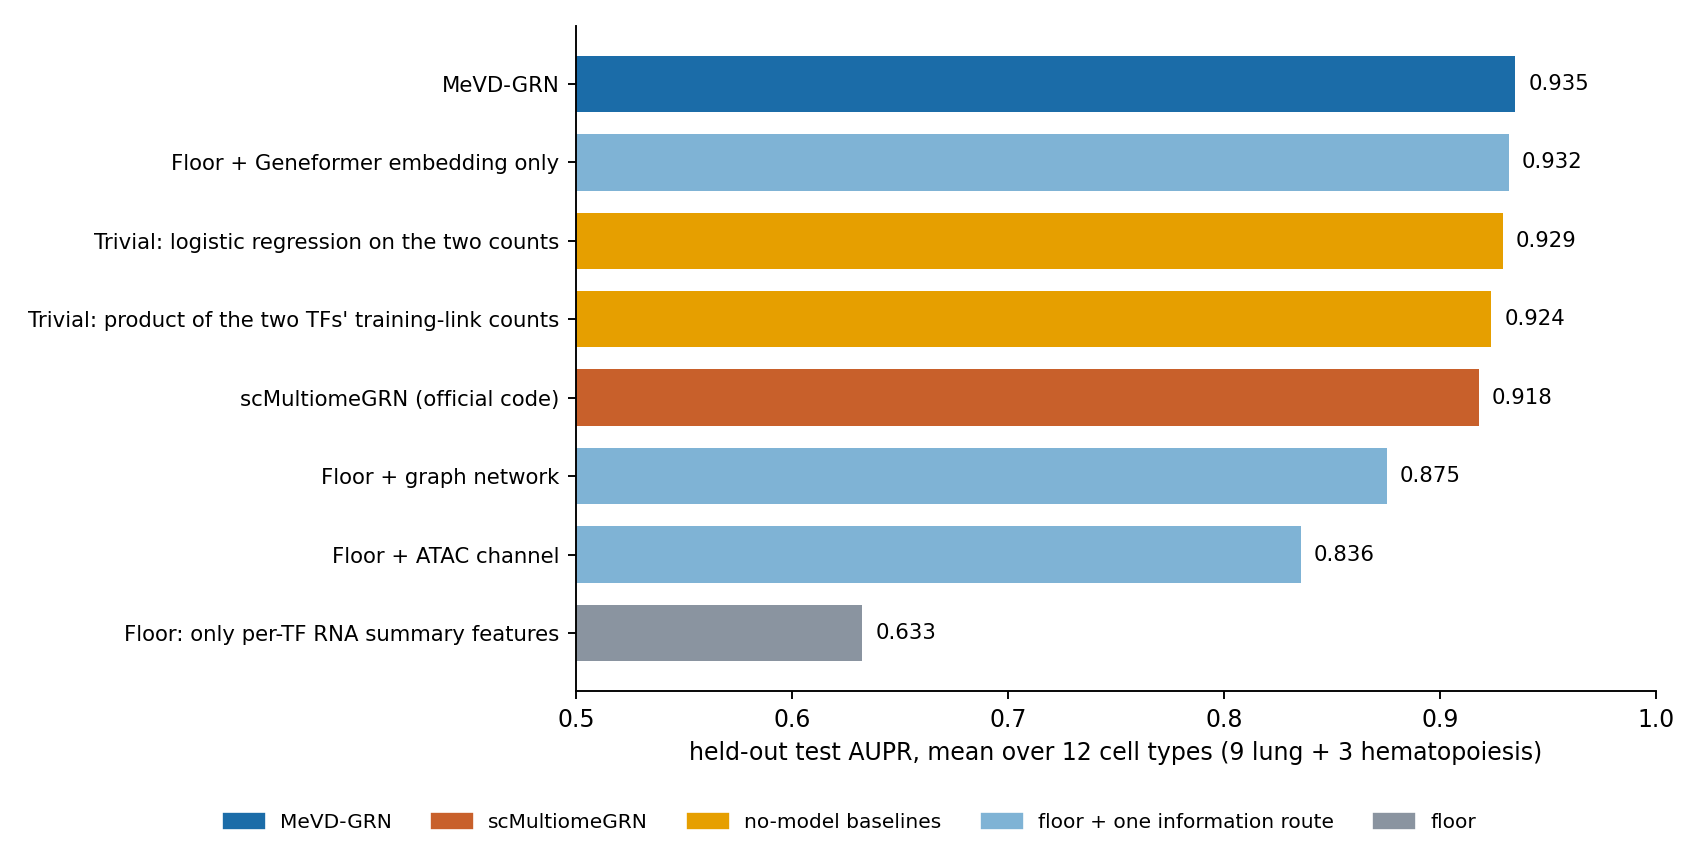
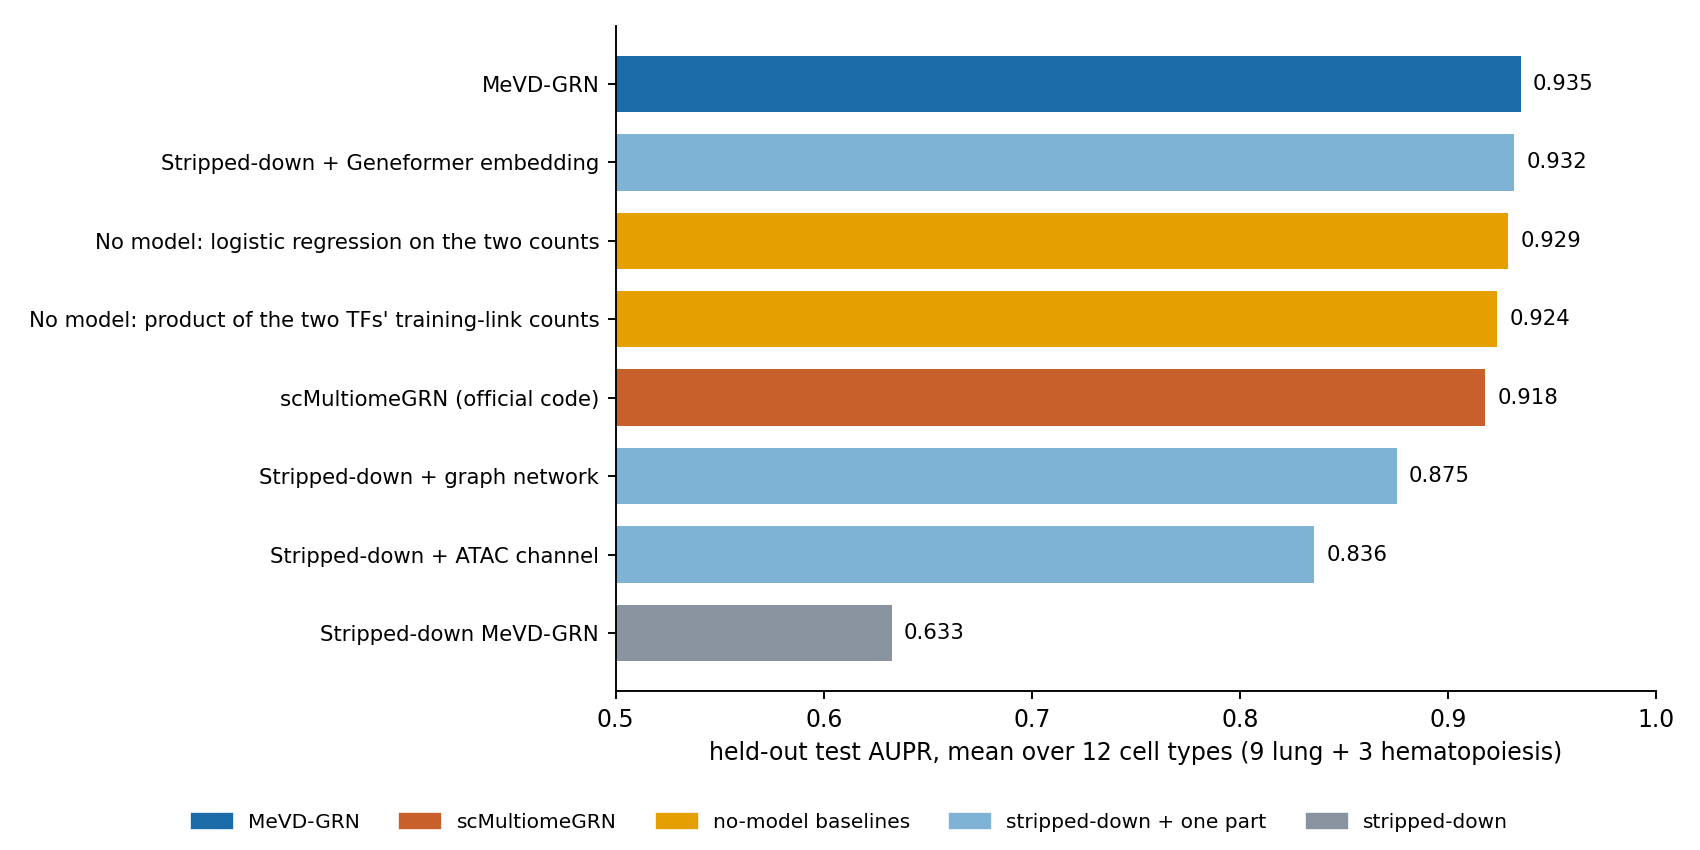
deck: one six-point slide for the ablations and the counting baseline; 'stripped-down' instead of 'floor'

diff --git a/docs/presentation/build_deck_11_17.py b/docs/presentation/build_deck_11_17.py
@@ -186,7 +186,7 @@ In the result tables, **bold** marks the best score in a row and *italics* the s
 - The splits are scMultiomeGRN's own: ten folds made with its random seed, 666. Our fold files are byte-for-byte identical to the ones the authors' split code writes.
 - In each fold, a tenth of the known links plus the same number of random non-links is held out for testing. Another 18% of the links is kept aside for validation.
 - Scores come from the authors' own metric function. AUROC is the chance that a true link is ranked above a non-link, and AUPR is the area under the precision-recall curve.
-- Our headline numbers are on the held-out test links only. The paper scores the full matrix of TF pairs, which includes the training links, so we report that separately on slide 13 to compare with the published figures.
+- Our headline numbers are on the held-out test links only. The paper scores the full matrix of TF pairs, which includes the training links, so we report that separately on slide 12 to compare with the published figures.
 - We ran the official code with six seeds on the first five lung cell types and two seeds on the rest. MeVD-GRN ran with five seeds everywhere.
 
 ## 7. How we kept test data out of training
@@ -263,39 +263,18 @@ add("""
 - Pooled over the 30 fold pairs, the gain is 0.017 AUPR (p = 4e-8) and 0.009 AUROC (p = 8e-8), and MeVD-GRN is ahead in 93% of the pairs.
 - Keep in mind that the RNA and ATAC data were measured in different cells here, and that the CMP RNA merges three labels.
 
-## 11. Where does MeVD-GRN's score come from?
+## 11. What drives MeVD-GRN's score?
 
-- To find out what the model actually relies on, we built a floor model. It keeps only the per-TF summary features, the pair scorer and a smaller network, with no Geneformer embedding, no ATAC channel, no graph network and no known links.
-- We then added back exactly one of those parts at a time and ran every version on all twelve cell types with five seeds.
-- The table gives the average held-out score over the twelve cell types and the difference from MeVD-GRN.
-""")
-add(column_table(["Version", "AUPR", "Difference from MeVD-GRN", "AUROC", "Difference from MeVD-GRN"], ROUTE, rank_cols=[1, 3], nd=3))
-add("""
-- The floor model collapses to 0.633 AUPR, about 0.30 below MeVD-GRN. The summary features alone are not enough.
-- Adding the ATAC channel brings it to 0.836, and adding the graph network brings it to 0.875. Both help, but neither gets close to the full model.
-- Adding only the Geneformer embedding brings it to 0.932, which is 0.003 below MeVD-GRN and 0.014 above scMultiomeGRN.
-- The Geneformer embedding is a fixed vector per gene and is the same in every cell type. It knows nothing about the cell data, only which TFs are in the pair.
-- So a model that only knows which two TFs it is looking at does almost as well as the full model. This points to the identity of the TFs, rather than anything specific to the cell type, as the main source of signal. The next slide tests that directly.
+- To see what MeVD-GRN relies on, we built a stripped-down version with no Geneformer embedding, no ATAC channel, no graph network and no known links, and then switched those parts back on one at a time. Every version ran on all twelve cell types with five seeds.
+- The stripped-down model reaches only 0.633 AUPR. Adding the ATAC channel brings it to 0.836 and adding the graph network brings it to 0.875, but neither gets near the full model's 0.935.
+- Adding back only the Geneformer embedding brings it to 0.932, within 0.003 of the full model. That embedding is the same in every cell type and only tells the model which TFs it is looking at.
+- We then tried a rule with no model at all, which scores a pair by how many training links each of its two TFs already has. It reaches 0.924, or 0.929 with a logistic regression on the two counts, and both beat scMultiomeGRN's 0.918.
+- This works because the folds split links, not TFs. Every TF is seen during training, and TFs with many links in training tend to have many in the test fold too.
+- About 0.011 of MeVD-GRN's 0.017 AUPR lead over scMultiomeGRN comes from this hub effect. What the model adds beyond it is about 0.006 AUPR, which is small but significant (p = 6e-9 over 120 fold pairs). A split that holds out whole TFs would remove the shortcut, and it is the obvious next experiment.
 
 ![Where every method lands on held-out AUPR](figs_scmgrn/fig_ladder.png)
 
-## 12. A no-model baseline: counting known links
-
-- The official folds split links, not TFs, so every TF shows up in the training links.
-- A TF with many known links in training is likely to have many among the test links too. A method can exploit this hub effect without learning anything about regulation.
-- To measure how much this explains, we built a baseline with no model, no features and no cell data.
-- For a test pair of TFs, the baseline counts how many training links each of the two TFs has. It then scores the pair by the product of the two counts, or with a logistic regression on them.
-- It only uses each fold's training links, and it is scored with the same code as every other method.
-""")
-add(column_table(["Method (held-out test links, 12 cell types)", "AUPR", "AUROC"], BASE, rank_cols=[1, 2], nd=3))
-add("""
-- The counting baseline beats scMultiomeGRN on AUPR and matches or beats it on AUROC. On this split, scMultiomeGRN does no better than a rule that counts known links.
-- Of the 0.017 AUPR that MeVD-GRN gains over scMultiomeGRN, about 0.011 can be had from counting alone.
-- What MeVD-GRN adds beyond the hub effect is about 0.006 AUPR and 0.007 AUROC. That is small but real: a fold-paired test over 120 pairs gives p = 6e-9 for AUPR and 1e-8 for AUROC.
-- This matches what we saw with BEAR-GRN, where simple in-degree rankers matched or beat published methods and reviewers expected splits that hold out whole TFs.
-- A stricter version of this benchmark would hold out all the links of some TFs, which removes the counting shortcut. We have not run it yet, and it is the obvious next experiment.
-
-## 13. The paper's own evaluation (for reference only)
+## 12. The paper's own evaluation (for reference only)
 
 - The paper scores the full matrix of all TF pairs, including the links each model was trained on. We show it only so the numbers can be compared with the published ones, and we draw no conclusions from it.
 - The last column holds the published figures for scMultiomeGRN and is not ranked.
@@ -309,7 +288,7 @@ add("""
 - The difference comes from the training links. A larger model rebuilds the links it was trained on more completely, and this evaluation rewards that, so it should not be read as better generalisation.
 - For the blood cell types, on the same evaluation: HSC scores 0.946 / 0.793 for MeVD-GRN, 0.927 / 0.696 for the official code and 0.92 / 0.67 in the paper. CMP scores 0.946 / 0.805, 0.927 / 0.692 and 0.92 / 0.66, and GMP scores 0.943 / 0.784, 0.928 / 0.681 and 0.93 / 0.71.
 
-## 14. Limitations
+## 13. Limitations
 
 - The answer key is computed from the same ATAC data the models read. A model can score well by learning how the key was built, without learning anything about regulation, and the same holds for scMultiomeGRN.
 - The folds split links, not TFs. A TF's identity and its number of training links carry over to the test links, which is why counting links works so well.
@@ -320,7 +299,7 @@ add("""
 - For the blood data, the ATAC counts come from the GEO matrix rather than per-cell sequence files, and the CMP RNA is our reading of three labels.
 - None of this tells us how the two methods compare on experimentally measured answer keys, which is what a benchmark like BEAR-GRN offers.
 
-## 15. What we conclude and what comes next
+## 14. What we conclude and what comes next
 
 - On scMultiomeGRN's own benchmark, with the same data, splits and scoring, and a faithful copy of the published method as the baseline, MeVD-GRN scores consistently higher on held-out links: 0.935 against 0.918 AUPR. This is a fair claim and we can make it.
 - What matters more is what that lead is made of. Counting known links reproduces about two thirds of it, and a fixed per-gene embedding with no cell data comes close to the full model.
@@ -329,9 +308,9 @@ add("""
 - The next step is to repeat the comparison with a split by TF, holding out every link of some TFs. That removes the counting shortcut and forces both methods to use the cell data.
 - Running that on scMultiomeGRN's datasets would show whether MeVD-GRN's small lead survives, and how scMultiomeGRN fares once the hub effect is gone. The same idea applies to benchmarks with experimental answer keys.
 
-## 16. Run record and where things are
+## 15. Run record and where things are
 
-- Everything in this document is finished: all nine lung and three blood cell types for both methods, the floor-model experiments on all twelve cell types, and the no-model baselines.
+- Everything in this document is finished: all nine lung and three blood cell types for both methods, the stripped-down experiments on all twelve cell types, and the no-model baselines.
 - Ada's outbound internet turned out to manage only 10 to 140 KB/s per connection, so we streamed the big input files from the laptop over the VPN, which took about three and a half hours.
 - Along the way we found that the GEO lung file is compressed twice, that the Seurat object has no variable-gene list, and that the official code runs out of memory on the largest cell types unless each worker gets 30 GB. We also fixed a bug that made one of our workers stop early. All of this is written up in `docs/experiments/scmultiomegrn_generalization.md`, section 11.8.
 - The code is on branch `scmgrn-tftf`. The model lives in `src/models/mevd_grn.py` and `src/models/decoder.py`, the scripts in `scripts/14b`, `16` to `21`, the cluster jobs in `slurm/scmgrn_*.sh` and the tests in `tests/`.

diff --git a/docs/presentation/make_scmgrn_ladder_fig.py b/docs/presentation/make_scmgrn_ladder_fig.py
@@ -11,13 +11,13 @@ import matplotlib.pyplot as plt
 REPO = Path(__file__).resolve().parents[2]
 rows = {r["variant"]: r for r in json.load(open(REPO / "docs/experiments/scmgrn_results/a1_ablation.json")) if r["n_cell_types"]}
 spec = [  # (variant key, label, colour group)
-    ("mevd_abl_min_noobs", "Floor: only per-TF RNA summary features", "floor"),
-    ("mevd_abl_fl_atac_noobs", "Floor + ATAC channel", "route"),
-    ("mevd_abl_fl_gnn_noobs", "Floor + graph network", "route"),
+    ("mevd_abl_min_noobs", "Stripped-down MeVD-GRN", "floor"),
+    ("mevd_abl_fl_atac_noobs", "Stripped-down + ATAC channel", "route"),
+    ("mevd_abl_fl_gnn_noobs", "Stripped-down + graph network", "route"),
     ("official_scmultiomegrn", "scMultiomeGRN (official code)", "official"),
-    ("degree_product", "Trivial: product of the two TFs' training-link counts", "trivial"),
-    ("degree_logreg", "Trivial: logistic regression on the two counts", "trivial"),
-    ("mevd_abl_fl_fm_noobs", "Floor + Geneformer embedding only", "route"),
+    ("degree_product", "No model: product of the two TFs' training-link counts", "trivial"),
+    ("degree_logreg", "No model: logistic regression on the two counts", "trivial"),
+    ("mevd_abl_fl_fm_noobs", "Stripped-down + Geneformer embedding", "route"),
     ("mevd_fm_h384_obs", "MeVD-GRN", "ours"),
 ]
 col = {"floor": "#8A94A0", "route": "#7fb3d5", "official": "#c8602b", "trivial": "#E69F00", "ours": "#1b6ca8"}
@@ -34,7 +34,7 @@ ax.set_xlim(0.5, 1.0)
 ax.set_xlabel("held-out test AUPR, mean over 12 cell types (9 lung + 3 hematopoiesis)")
 ax.spines[["top", "right"]].set_visible(False)
 handles = [plt.Rectangle((0, 0), 1, 1, color=col[g]) for g in ("ours", "official", "trivial", "route", "floor")]
-fig.legend(handles, ["MeVD-GRN", "scMultiomeGRN", "no-model baselines", "floor + one information route", "floor"],
+fig.legend(handles, ["MeVD-GRN", "scMultiomeGRN", "no-model baselines", "stripped-down + one part", "stripped-down"],
            fontsize=8.5, frameon=False, loc="lower center", ncol=5)
 fig.tight_layout(rect=(0, 0.07, 1, 1))
 out = REPO / "docs/presentation/figs_scmgrn/fig_ladder.png"

diff --git a/docs/presentation/presentation_11th_oct_17th_oct.md b/docs/presentation/presentation_11th_oct_17th_oct.md
@@ -77,7 +77,7 @@ In the result tables, **bold** marks the best score in a row and *italics* the s
 - The splits are scMultiomeGRN's own: ten folds made with its random seed, 666. Our fold files are byte-for-byte identical to the ones the authors' split code writes.
 - In each fold, a tenth of the known links plus the same number of random non-links is held out for testing. Another 18% of the links is kept aside for validation.
 - Scores come from the authors' own metric function. AUROC is the chance that a true link is ranked above a non-link, and AUPR is the area under the precision-recall curve.
-- Our headline numbers are on the held-out test links only. The paper scores the full matrix of TF pairs, which includes the training links, so we report that separately on slide 13 to compare with the published figures.
+- Our headline numbers are on the held-out test links only. The paper scores the full matrix of TF pairs, which includes the training links, so we report that separately on slide 12 to compare with the published figures.
 - We ran the official code with six seeds on the first five lung cell types and two seeds on the rest. MeVD-GRN ran with five seeds everywhere.
 
 ## 7. How we kept test data out of training
@@ -169,51 +169,18 @@ In the result tables, **bold** marks the best score in a row and *italics* the s
 - Pooled over the 30 fold pairs, the gain is 0.017 AUPR (p = 4e-8) and 0.009 AUROC (p = 8e-8), and MeVD-GRN is ahead in 93% of the pairs.
 - Keep in mind that the RNA and ATAC data were measured in different cells here, and that the CMP RNA merges three labels.
 
-## 11. Where does MeVD-GRN's score come from?
+## 11. What drives MeVD-GRN's score?
 
-- To find out what the model actually relies on, we built a floor model. It keeps only the per-TF summary features, the pair scorer and a smaller network, with no Geneformer embedding, no ATAC channel, no graph network and no known links.
-- We then added back exactly one of those parts at a time and ran every version on all twelve cell types with five seeds.
-- The table gives the average held-out score over the twelve cell types and the difference from MeVD-GRN.
-
-| Version | AUPR | Difference from MeVD-GRN | AUROC | Difference from MeVD-GRN |
-|---|---|---|---|---|
-| MeVD-GRN | **0.935** | – | **0.924** | – |
-| Floor model: only the per-TF summary features (no Geneformer, no ATAC channel, no graph network, no known links) | 0.633 | -0.302 | 0.635 | -0.289 |
-| Floor model plus the ATAC channel | 0.836 | -0.099 | 0.823 | -0.100 |
-| Floor model plus the graph network over label-free graphs | 0.875 | -0.060 | 0.862 | -0.062 |
-| Floor model plus the Geneformer embedding | *0.932* | -0.003 | *0.921* | -0.003 |
-| scMultiomeGRN, official code (for reference) | 0.918 | -0.017 | 0.912 | -0.011 |
-
-- The floor model collapses to 0.633 AUPR, about 0.30 below MeVD-GRN. The summary features alone are not enough.
-- Adding the ATAC channel brings it to 0.836, and adding the graph network brings it to 0.875. Both help, but neither gets close to the full model.
-- Adding only the Geneformer embedding brings it to 0.932, which is 0.003 below MeVD-GRN and 0.014 above scMultiomeGRN.
-- The Geneformer embedding is a fixed vector per gene and is the same in every cell type. It knows nothing about the cell data, only which TFs are in the pair.
-- So a model that only knows which two TFs it is looking at does almost as well as the full model. This points to the identity of the TFs, rather than anything specific to the cell type, as the main source of signal. The next slide tests that directly.
+- To see what MeVD-GRN relies on, we built a stripped-down version with no Geneformer embedding, no ATAC channel, no graph network and no known links, and then switched those parts back on one at a time. Every version ran on all twelve cell types with five seeds.
+- The stripped-down model reaches only 0.633 AUPR. Adding the ATAC channel brings it to 0.836 and adding the graph network brings it to 0.875, but neither gets near the full model's 0.935.
+- Adding back only the Geneformer embedding brings it to 0.932, within 0.003 of the full model. That embedding is the same in every cell type and only tells the model which TFs it is looking at.
+- We then tried a rule with no model at all, which scores a pair by how many training links each of its two TFs already has. It reaches 0.924, or 0.929 with a logistic regression on the two counts, and both beat scMultiomeGRN's 0.918.
+- This works because the folds split links, not TFs. Every TF is seen during training, and TFs with many links in training tend to have many in the test fold too.
+- About 0.011 of MeVD-GRN's 0.017 AUPR lead over scMultiomeGRN comes from this hub effect. What the model adds beyond it is about 0.006 AUPR, which is small but significant (p = 6e-9 over 120 fold pairs). A split that holds out whole TFs would remove the shortcut, and it is the obvious next experiment.
 
 ![Where every method lands on held-out AUPR](figs_scmgrn/fig_ladder.png)
 
-## 12. A no-model baseline: counting known links
-
-- The official folds split links, not TFs, so every TF shows up in the training links.
-- A TF with many known links in training is likely to have many among the test links too. A method can exploit this hub effect without learning anything about regulation.
-- To measure how much this explains, we built a baseline with no model, no features and no cell data.
-- For a test pair of TFs, the baseline counts how many training links each of the two TFs has. It then scores the pair by the product of the two counts, or with a logistic regression on them.
-- It only uses each fold's training links, and it is scored with the same code as every other method.
-
-| Method (held-out test links, 12 cell types) | AUPR | AUROC |
-|---|---|---|
-| scMultiomeGRN, official code | 0.918 | 0.912 |
-| No-model baseline: product of the two TFs' training-link counts | 0.924 | 0.912 |
-| No-model baseline: logistic regression on the two counts | *0.929* | *0.917* |
-| MeVD-GRN | **0.935** | **0.924** |
-
-- The counting baseline beats scMultiomeGRN on AUPR and matches or beats it on AUROC. On this split, scMultiomeGRN does no better than a rule that counts known links.
-- Of the 0.017 AUPR that MeVD-GRN gains over scMultiomeGRN, about 0.011 can be had from counting alone.
-- What MeVD-GRN adds beyond the hub effect is about 0.006 AUPR and 0.007 AUROC. That is small but real: a fold-paired test over 120 pairs gives p = 6e-9 for AUPR and 1e-8 for AUROC.
-- This matches what we saw with BEAR-GRN, where simple in-degree rankers matched or beat published methods and reviewers expected splits that hold out whole TFs.
-- A stricter version of this benchmark would hold out all the links of some TFs, which removes the counting shortcut. We have not run it yet, and it is the obvious next experiment.
-
-## 13. The paper's own evaluation (for reference only)
+## 12. The paper's own evaluation (for reference only)
 
 - The paper scores the full matrix of all TF pairs, including the links each model was trained on. We show it only so the numbers can be compared with the published ones, and we draw no conclusions from it.
 - The last column holds the published figures for scMultiomeGRN and is not ranked.
@@ -237,7 +204,7 @@ In the result tables, **bold** marks the best score in a row and *italics* the s
 - The difference comes from the training links. A larger model rebuilds the links it was trained on more completely, and this evaluation rewards that, so it should not be read as better generalisation.
 - For the blood cell types, on the same evaluation: HSC scores 0.946 / 0.793 for MeVD-GRN, 0.927 / 0.696 for the official code and 0.92 / 0.67 in the paper. CMP scores 0.946 / 0.805, 0.927 / 0.692 and 0.92 / 0.66, and GMP scores 0.943 / 0.784, 0.928 / 0.681 and 0.93 / 0.71.
 
-## 14. Limitations
+## 13. Limitations
 
 - The answer key is computed from the same ATAC data the models read. A model can score well by learning how the key was built, without learning anything about regulation, and the same holds for scMultiomeGRN.
 - The folds split links, not TFs. A TF's identity and its number of training links carry over to the test links, which is why counting links works so well.
@@ -248,7 +215,7 @@ In the result tables, **bold** marks the best score in a row and *italics* the s
 - For the blood data, the ATAC counts come from the GEO matrix rather than per-cell sequence files, and the CMP RNA is our reading of three labels.
 - None of this tells us how the two methods compare on experimentally measured answer keys, which is what a benchmark like BEAR-GRN offers.
 
-## 15. What we conclude and what comes next
+## 14. What we conclude and what comes next
 
 - On scMultiomeGRN's own benchmark, with the same data, splits and scoring, and a faithful copy of the published method as the baseline, MeVD-GRN scores consistently higher on held-out links: 0.935 against 0.918 AUPR. This is a fair claim and we can make it.
 - What matters more is what that lead is made of. Counting known links reproduces about two thirds of it, and a fixed per-gene embedding with no cell data comes close to the full model.
@@ -257,9 +224,9 @@ In the result tables, **bold** marks the best score in a row and *italics* the s
 - The next step is to repeat the comparison with a split by TF, holding out every link of some TFs. That removes the counting shortcut and forces both methods to use the cell data.
 - Running that on scMultiomeGRN's datasets would show whether MeVD-GRN's small lead survives, and how scMultiomeGRN fares once the hub effect is gone. The same idea applies to benchmarks with experimental answer keys.
 
-## 16. Run record and where things are
+## 15. Run record and where things are
 
-- Everything in this document is finished: all nine lung and three blood cell types for both methods, the floor-model experiments on all twelve cell types, and the no-model baselines.
+- Everything in this document is finished: all nine lung and three blood cell types for both methods, the stripped-down experiments on all twelve cell types, and the no-model baselines.
 - Ada's outbound internet turned out to manage only 10 to 140 KB/s per connection, so we streamed the big input files from the laptop over the VPN, which took about three and a half hours.
 - Along the way we found that the GEO lung file is compressed twice, that the Seurat object has no variable-gene list, and that the official code runs out of memory on the largest cell types unless each worker gets 30 GB. We also fixed a bug that made one of our workers stop early. All of this is written up in `docs/experiments/scmultiomegrn_generalization.md`, section 11.8.
 - The code is on branch `scmgrn-tftf`. The model lives in `src/models/mevd_grn.py` and `src/models/decoder.py`, the scripts in `scripts/14b`, `16` to `21`, the cluster jobs in `slurm/scmgrn_*.sh` and the tests in `tests/`.
